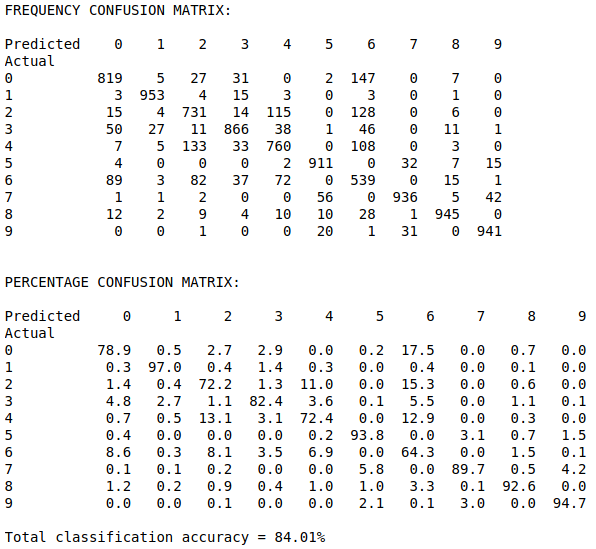
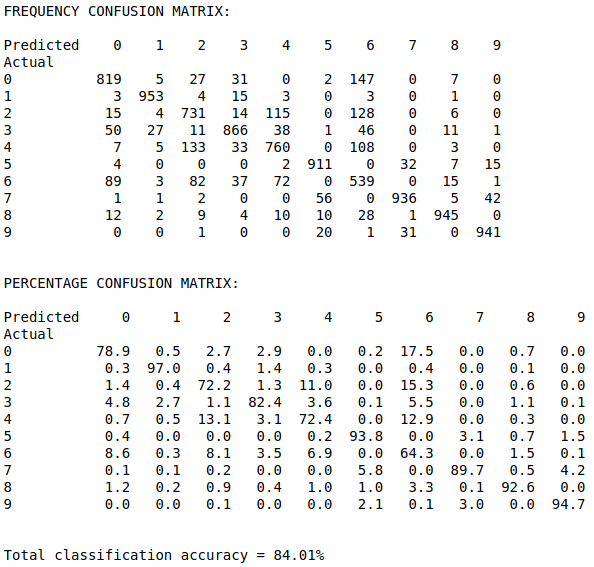
q2 time!

diff --git a/INFR10069-2020-CW2/Assignment_2.tex b/INFR10069-2020-CW2/Assignment_2.tex
@@ -288,7 +288,7 @@
 
    
 
-      \begin{answerbox}{35em}
+      \begin{answerbox}{37em}
          \includegraphics[width=1\textwidth]{images/q21.png}
       \end{answerbox}
   
